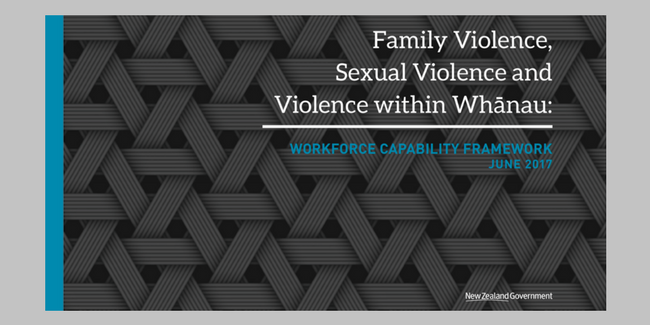
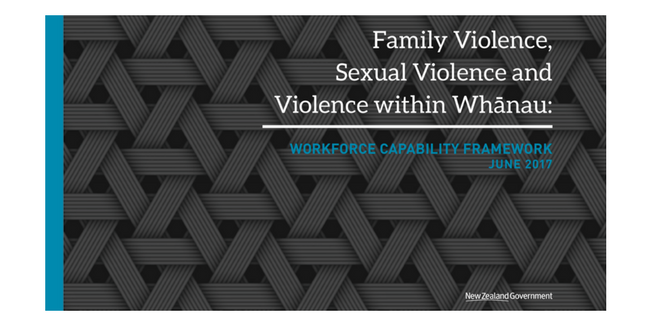
Updates case_studies.md
Auto commit by GitBook Editor

Changed region(s): [[0.0, 0.0, 1.0, 1.0]]

diff --git a/case_studies.md b/case_studies.md
@@ -1,4 +1,4 @@
-
+![](/assets/Framework.png)
 
 # Case Studies & User Stories 🐒
 
